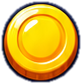
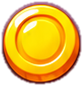
Win popup: purple/cream toy style from Allan's concept, baked title and crown
Claude-Session: https://claude.ai/code/session_01NtdD59FKe2D5p4YXTBGgrJ

diff --git a/index.html b/index.html
@@ -59,40 +59,42 @@ button.on{background:var(--accent)}
 .w-title{font:700 clamp(68px,19vw,128px)/0.9 var(--f-display);color:var(--ball);letter-spacing:.02em;transform:rotate(-3deg);
   text-shadow:4px 0 var(--ink),-4px 0 var(--ink),0 4px var(--ink),0 -4px var(--ink),3px 3px var(--ink),-3px 3px var(--ink),3px -3px var(--ink),-3px -3px var(--ink),0 10px 0 var(--ink)}
 .w-title span{display:inline-block}
-.w-panel{position:relative;display:flex;flex-direction:column;align-items:center;gap:8px;width:min(340px,calc(100vw - 32px));padding:18px 16px 18px;border-radius:34px;
-  background:linear-gradient(#FFFBF3,#F6EADF);border:6px solid #1E2C5C;box-shadow:inset 0 0 0 3px #fff,inset 0 -6px 0 rgba(30,44,92,.08),0 8px 0 #16224A,0 20px 40px rgba(16,24,60,.45)}
-.w-lv{font:700 15px/1 var(--f-display);letter-spacing:.06em;text-transform:uppercase;color:#1E2C5C}
-.w-clear{position:relative;font:700 46px/1.05 var(--f-display);letter-spacing:.01em;color:#FFC21E;margin:2px 0 0;
-  text-shadow:4px 0 #1E2C5C,-4px 0 #1E2C5C,0 4px #1E2C5C,0 -4px #1E2C5C,3px 3px #1E2C5C,-3px 3px #1E2C5C,3px -3px #1E2C5C,-3px -3px #1E2C5C,0 8px 0 #1E2C5C}
-.w-clear::after{content:attr(data-t);position:absolute;inset:0;background:linear-gradient(#FFF6A8 0%,#FFE14A 38%,#FFB300 75%,#F59A00 100%);-webkit-background-clip:text;background-clip:text;color:transparent;text-shadow:none}
-.w-clear::before{content:'';position:absolute;left:10%;right:10%;top:16%;height:16%;border-radius:20px;background:rgba(255,255,255,.55);filter:blur(2px);z-index:1;pointer-events:none;mix-blend-mode:soft-light}
-.w-stars{position:relative;display:flex;align-items:flex-end;justify-content:center;gap:2px;height:112px;width:100%}
-.w-stars::before{content:'';position:absolute;left:50%;top:50%;width:260px;height:200px;transform:translate(-50%,-50%);border-radius:50%;
-  background:radial-gradient(closest-side,rgba(255,236,150,.95),rgba(255,226,120,.55) 45%,rgba(255,226,120,0)),repeating-conic-gradient(from 0deg,rgba(255,214,90,.28) 0 8deg,transparent 8deg 22deg);
+.w-panel{--plum:#5B3A60;--plum2:#7A4F7E;position:relative;display:flex;flex-direction:column;align-items:center;gap:8px;width:min(340px,calc(100vw - 32px));padding:34px 16px 20px;margin-top:34px;border-radius:36px;
+  background:radial-gradient(120% 60% at 50% 0%,#FFF8F0,rgba(255,248,240,0) 70%),linear-gradient(#FFF0E6,#FFE6D6 70%,#FBDCCB);
+  border:8px solid #A77BA6;box-shadow:0 0 0 3px var(--plum),inset 0 0 0 3px #FFD45E,inset 0 0 0 6px #FFF4E4,0 10px 0 #4A2F50,0 22px 44px rgba(40,20,50,.45)}
+.w-crown{position:absolute;top:-62px;left:50%;width:250px;transform:translateX(-50%);pointer-events:none;filter:drop-shadow(0 3px 0 rgba(74,47,80,.35))}
+.w-lv{font:700 16px/1 var(--f-display);letter-spacing:.05em;text-transform:uppercase;color:var(--plum);margin-top:2px}
+.w-clear{width:300px;max-width:100%;height:auto;margin:0 0 -4px}
+.w-stars{position:relative;display:flex;align-items:flex-end;justify-content:center;gap:0;height:100px;width:100%}
+.w-stars::before{content:'';position:absolute;left:50%;top:50%;width:270px;height:210px;transform:translate(-50%,-50%);border-radius:50%;
+  background:radial-gradient(closest-side,rgba(255,240,170,.95),rgba(255,226,120,.55) 45%,rgba(255,226,120,0)),repeating-conic-gradient(from 0deg,rgba(255,206,90,.3) 0 8deg,transparent 8deg 22deg);
   -webkit-mask:radial-gradient(closest-side,#000 55%,transparent);mask:radial-gradient(closest-side,#000 55%,transparent);opacity:0;transition:opacity .4s .3s}
 #win.in .w-stars.lit::before{opacity:1}
-.w-star{position:relative;width:86px;height:auto;opacity:0;transform:scale(.2);filter:drop-shadow(0 4px 0 rgba(30,44,92,.25))}
-.w-star:nth-child(2){width:108px;margin-bottom:10px;z-index:1}
+.w-star{position:relative;width:82px;height:auto;opacity:0;transform:scale(.2);filter:drop-shadow(0 4px 0 rgba(91,58,96,.28))}
+.w-star:nth-child(2){width:100px;margin:0 -6px 12px;z-index:1}
 .w-star.pop{animation:wstar .5s cubic-bezier(.2,1.9,.4,1) forwards}
 @keyframes wstar{0%{opacity:0;transform:scale(.2) rotate(-40deg)}100%{opacity:1;transform:scale(1) rotate(0)}}
 .w-spark{position:absolute;top:22px;width:44px;height:50px;opacity:0;transition:opacity .3s 1.1s}
-.w-spark i{position:absolute;width:24px;height:9px;border-radius:9px;background:linear-gradient(#FFE45C,#FFB300);box-shadow:0 0 0 1.5px rgba(214,140,0,.35)}
+.w-spark i{position:absolute;width:24px;height:10px;border-radius:9px;background:linear-gradient(#FFE45C,#FFB300);box-shadow:0 0 0 1.5px rgba(214,140,0,.35)}
 .w-spark i:nth-child(1){left:6px;top:4px;transform:rotate(40deg)}.w-spark i:nth-child(2){left:0;top:24px;transform:rotate(-10deg)}
 .w-spark.l{left:0}.w-spark.r{right:0;transform:scaleX(-1)}
 #win.in .w-stars.lit .w-spark{opacity:1}
-.w-goal{font:600 15px/1.25 var(--f-display);color:#1E2C5C;min-height:1.25em;text-align:center}
-.w-panel .w-stats{width:100%;justify-content:space-around;background:linear-gradient(#2A3C78,#1A2758);border:3px solid #13204A;border-radius:22px;padding:10px 4px 9px;box-shadow:inset 0 3px 0 rgba(255,255,255,.14),0 4px 0 rgba(19,32,74,.35)}
+.w-goal{font:700 14px/1.25 var(--f-display);color:#5A2F52;min-height:1.25em;text-align:center}
+.w-panel .w-stats{width:100%;justify-content:space-around;background:linear-gradient(#C9A0CC,#9A6CA0 55%,#835689);border:3px solid var(--plum);border-radius:24px;padding:10px 4px 9px;box-shadow:inset 0 3px 0 rgba(255,255,255,.35),inset 0 -4px 0 rgba(74,47,80,.25),0 4px 0 rgba(74,47,80,.4)}
 .w-panel .w-stats div{min-width:0;flex:1;gap:3px}
-.w-panel .w-stats b{font:700 30px/1 var(--f-display);color:#FFD43B;text-shadow:0 2px 0 rgba(0,0,0,.25);display:flex;align-items:center;gap:4px}
-.w-panel .w-stats b img{width:28px;height:28px}
-.w-panel .w-stats span{font:700 12px/1 var(--f-display);letter-spacing:.06em;color:#B9CCFF}
-.w-panel .w-stats b span{font:inherit;color:inherit;letter-spacing:0}
-.w-panel .w-best{position:relative;background:none;padding:2px 46px;border-radius:0;font:700 30px/1.1 var(--f-display);letter-spacing:.04em;color:#FF3E8E;
-  text-shadow:2px 0 #fff,-2px 0 #fff,0 2px #fff,0 -2px #fff,0 4px 0 #A3155A,0 6px 8px rgba(163,21,90,.25);transform:rotate(-2deg)}
+.w-panel .w-stats div+div{border-left:2px solid rgba(255,255,255,.28)}
+.w-panel .w-stats b{font:700 30px/1 var(--f-display);color:#FFDE3D;display:flex;align-items:center;gap:4px;
+  text-shadow:2px 0 var(--plum),-2px 0 var(--plum),0 2px var(--plum),0 -2px var(--plum),0 3px 0 var(--plum)}
+.w-panel .w-stats b img{width:28px;height:auto}
+.w-panel .w-stats span{font:700 13px/1 var(--f-display);letter-spacing:.06em;color:#fff;text-shadow:0 1px 0 rgba(74,47,80,.6)}
+.w-panel .w-stats b span{font:inherit;color:inherit;letter-spacing:0;text-shadow:inherit}
+.w-panel .w-best{position:relative;background:none;padding:2px 46px;border-radius:0;font:700 26px/1.1 var(--f-display);letter-spacing:.03em;white-space:nowrap;color:#FF3E8E;
+  text-shadow:2.5px 0 #fff,-2.5px 0 #fff,0 2.5px #fff,0 -2.5px #fff,2px 2px #fff,-2px -2px #fff,0 5px 0 #B0195F,0 7px 10px rgba(176,25,95,.25);transform:rotate(-2deg)}
 .w-panel .w-best .w-spark{top:2px;width:40px;height:40px;opacity:1;transition:none}
 .w-panel .w-best .w-spark.l{left:-2px}.w-panel .w-best .w-spark.r{right:-2px}
-.w-panel .w-tap{font:700 22px/1 var(--f-display);color:#fff;background:linear-gradient(#34488C,#1E2C5C);border:3px solid #13204A;padding:14px 34px;border-radius:999px;box-shadow:inset 0 3px 0 rgba(255,255,255,.2),0 5px 0 #0F1A3E}
-.w-panel .w-prev{font:600 12px/1 var(--f-display);color:#4A5784}
+.w-panel .w-tap{font:700 23px/1 var(--f-display);color:#fff;background:linear-gradient(#D7AEDA,#A174A8 55%,#8A5C91);border:3px solid var(--plum);padding:14px 40px;border-radius:999px;
+  text-shadow:0 2px 0 rgba(74,47,80,.55);box-shadow:inset 0 3px 0 rgba(255,255,255,.4),inset 0 -4px 0 rgba(74,47,80,.25),0 5px 0 #4A2F50}
+.w-panel .w-prev{font:600 12px/1 var(--f-display);color:#7A5A7E}
 .w-best{font:700 15px/1 var(--f-display);background:var(--spring);color:#fff;padding:8px 14px;border-radius:999px;letter-spacing:.1em}
 .w-stats{display:flex;gap:4px;background:var(--ink);color:var(--paper);border-radius:14px;padding:10px 6px}
 .w-stats div{display:flex;flex-direction:column;align-items:center;min-width:66px;gap:4px}
@@ -102,7 +104,10 @@ button.on{background:var(--accent)}
 .w-tap{font:600 16px/1 var(--f-display);color:var(--paper);background:var(--ink);padding:11px 18px;border-radius:12px;opacity:0;transition:opacity .3s}
 .w-tap.on{opacity:1;animation:wpulse 1s ease-in-out infinite}
 #win.in .w-panel{animation:wpop .4s cubic-bezier(.2,1.6,.4,1) both}
-#win.in .w-clear{animation:wslam .5s .1s cubic-bezier(.2,1.6,.4,1) both}
+#win.in .w-clear{animation:wslam2 .5s .1s cubic-bezier(.2,1.6,.4,1) both}
+#win.in .w-crown{animation:wcrown .5s .05s cubic-bezier(.2,1.8,.4,1) both}
+@keyframes wslam2{0%{transform:scale(2.4) rotate(-8deg);opacity:0}55%{opacity:1}100%{transform:none}}
+@keyframes wcrown{0%{transform:translateX(-50%) translateY(30px) scale(.4);opacity:0}100%{transform:translateX(-50%);opacity:1}}
 #win.in .w-title{animation:wslam .55s cubic-bezier(.2,1.6,.4,1) both}
 #win.in .w-title span{animation:wwob 1.1s ease-in-out infinite;animation-delay:calc(var(--i) * .09s + .5s)}
 #win.in .w-stats{animation:wpop .4s .25s cubic-bezier(.2,1.6,.4,1) both}
@@ -162,8 +167,9 @@ textarea{width:100%;height:180px;font:400 11px/1.4 var(--f-mono);border:2px soli
   <div id="hint" hidden>Tap anywhere to SLAM<small>slam = big bounce + turn around · slam twice to keep going</small></div>
   <div id="toast"></div>
   <div id="win" hidden><div class="w-card"><div class="w-panel">
+    <img class="w-crown" src="art/ui/crown.png" alt="">
     <div class="w-lv" id="wLv">Level 1</div>
-    <div class="w-clear" data-t="Level clear!">Level clear!</div>
+    <img class="w-clear" src="art/ui/title.png" alt="Level clear!">
     <div class="w-stars" id="wStars" aria-label="Stars"><img class="w-star" src="art/ui/star-empty.png" alt=""><img class="w-star" src="art/ui/star-empty.png" alt=""><img class="w-star" src="art/ui/star-empty.png" alt=""><span class="w-spark l"><i></i><i></i></span><span class="w-spark r"><i></i><i></i></span></div>
     <div class="w-goal" id="wGoal"></div>
     <div class="w-stats"><div><b id="wSlams">0</b><span>slams</span></div><div><b><img src="art/ui/coin.png" alt=""><span id="wCoins">0</span></b><span>coins</span></div><div><b id="wTime">0.00</b><span>seconds</span></div></div>
@@ -452,7 +458,7 @@ function winStep(dt){
   if(!w.banner&&w.age>0.3){w.banner=true;showBanner()}
   if(!w.ready&&w.age>1.2){w.ready=true;$('wTap').classList.add('on')}
   const s=scale();
-  pcam.x+=(o.x-pcam.x)*(1-Math.exp(-dt*4));pcam.y+=(o.y-H*0.28/s-pcam.y)*(1-Math.exp(-dt*4));
+  pcam.x+=(o.x-pcam.x)*(1-Math.exp(-dt*4));pcam.y+=(o.y-H*0.33/s-pcam.y)*(1-Math.exp(-dt*4));
 }
 function countUp(el,to,dec,ms,onTick,fmt){const t0=performance.now();let lastI=-1;const show=v=>{el.textContent=fmt?fmt(v.toFixed(dec)):v.toFixed(dec)};const f=now=>{const k=Math.min(1,(now-t0)/ms),e=1-Math.pow(1-k,3),v=to*e;show(v);if(onTick&&Math.floor(v)!==lastI){lastI=Math.floor(v);if(lastI>0)onTick(lastI)}if(k<1)requestAnimationFrame(f);else show(to)};requestAnimationFrame(f)}
 // Stars: 3 = within the fewest slams the bot found (par), 2 = a few more, 1 = any clear.

diff --git a/tools/cut_ui.py b/tools/cut_ui.py
@@ -1,29 +1,42 @@
-"""Cut the shiny star and coin out of the ChatGPT level-clear design (art/ui/src/level-clear-concept.png).
-Writes art/ui/star.png, art/ui/star-empty.png, art/ui/coin.png. Run: python3 tools/cut_ui.py"""
+"""Cut baked pieces for the level-clear popup out of Allan's ChatGPT design (art/ui/src/level-clear-concept-2.png).
+Writes art/ui/: title.png ("Level clear!"), crown.png (top badge with ribbons), star.png, star-empty.png, coin.png,
+Run: python3 tools/cut_ui.py"""
 import cv2, numpy as np, os
-ROOT=os.path.join(os.path.dirname(__file__),'..'); im=cv2.imread(os.path.join(ROOT,'art/ui/src/level-clear-concept.png'))
-def enclosed(x0,y0,x1,y1,vmax=110,keep_outline=True,pad=0):
-    c=im[y0:y1,x0:x1]; v=cv2.cvtColor(c,cv2.COLOR_BGR2HSV)[...,2]
-    dark=(v<vmax).astype(np.uint8)
-    dark=cv2.morphologyEx(dark,cv2.MORPH_CLOSE,np.ones((3,3),np.uint8))
-    free=(1-dark).astype(np.uint8); n,lab=cv2.connectedComponents(free)
-    edge=set(np.unique(np.concatenate([lab[0],lab[-1],lab[:,0],lab[:,-1]])))
+ROOT=os.path.join(os.path.dirname(__file__),'..'); SRC=os.path.join(ROOT,'art/ui/src/level-clear-concept-2.png'); OUT=os.path.join(ROOT,'art/ui')
+im=cv2.imread(SRC); HSV=cv2.cvtColor(im,cv2.COLOR_BGR2HSV).astype(int)
+def save(n,a): cv2.imwrite(os.path.join(OUT,n),a); print(n,a.shape[1],'x',a.shape[0])
+def finish(x0,y0,x1,y1,m,fill=True,soft=0.8,minarea=40):
+    m=m.astype(np.uint8)
+    if fill:
+        inv=(1-m).astype(np.uint8);n,lab=cv2.connectedComponents(inv)
+        edge=set(np.unique(np.concatenate([lab[0],lab[-1],lab[:,0],lab[:,-1]])))
+        for k in range(1,n):
+            if k not in edge: m[lab==k]=1
+    n,lab,st,_=cv2.connectedComponentsWithStats(m);keep=[k for k in range(1,n) if st[k,cv2.CC_STAT_AREA]>minarea];m=np.isin(lab,keep).astype(np.float32)
+    a=cv2.GaussianBlur(m,(3,3),soft); c=im[y0:y1,x0:x1].astype(np.float32)
+    out=np.dstack([c,a*255]); ys,xs=np.nonzero(a>0.05)
+    return out[max(0,ys.min()-1):ys.max()+2,max(0,xs.min()-1):xs.max()+2].clip(0,255).astype(np.uint8)
+def region(x0,y0,x1,y1): h,s,v=[HSV[y0:y1,x0:x1,i] for i in range(3)]; return h,s,v
+def enclosed(x0,y0,x1,y1,vmax=120,grow=4,every=False,nocream=False):
+    h,s,v=region(x0,y0,x1,y1); dark=cv2.morphologyEx((v<vmax).astype(np.uint8),cv2.MORPH_CLOSE,np.ones((3,3),np.uint8))
+    n,lab=cv2.connectedComponents((1-dark).astype(np.uint8)); edge=set(np.unique(np.concatenate([lab[0],lab[-1],lab[:,0],lab[:,-1]])))
     inside=np.isin(lab,[k for k in range(1,n) if k not in edge]).astype(np.uint8)
-    # keep the biggest enclosed area (the star/coin body) and everything inside it
-    n2,l2,st,_=cv2.connectedComponentsWithStats(inside);k=1+np.argmax(st[1:,cv2.CC_STAT_AREA]);body=(l2==k).astype(np.uint8)
+    n2,l2,st,_=cv2.connectedComponentsWithStats(inside)
+    body=(np.isin(l2,[k for k in range(1,n2) if st[k,cv2.CC_STAT_AREA]>400]) if every else (l2==1+np.argmax(st[1:,cv2.CC_STAT_AREA]))).astype(np.uint8)
     body=cv2.morphologyEx(body,cv2.MORPH_CLOSE,np.ones((7,7),np.uint8))
-    ff=body.copy();h,w=body.shape;cv2.floodFill(ff,np.zeros((h+2,w+2),np.uint8),(0,0),1);body=body|(1-ff)
-    m=cv2.dilate(body,np.ones((3,3),np.uint8),iterations=pad if pad else 4) if keep_outline else body
-    a=cv2.GaussianBlur(m.astype(np.float32),(3,3),0.8)
-    out=np.dstack([c.astype(np.float32),a*255])
-    if not keep_outline: pass
-    ys,xs=np.nonzero(m);return out[ys.min()-2:ys.max()+3,xs.min()-2:xs.max()+3].clip(0,255).astype(np.uint8)
-star=enclosed(345,480,600,725)
-cv2.imwrite(os.path.join(ROOT,'art/ui/star.png'),star)
-# empty star: same shape, cool grey-blue, keeps the shine
+    m=cv2.dilate(body,np.ones((3,3),np.uint8),iterations=grow)
+    if nocream: m=m&((v<215)|(s>110)).astype(np.uint8)
+    return finish(x0,y0,x1,y1,m)
+# crown with ribbons, over the blue game scene
+X0,Y0,X1,Y1=180,150,752,281; h,s,v=region(X0,Y0,X1,Y1)
+blue=(h>=85)&(h<=135); cloud=(s<70)&(v>150)
+save('crown.png',finish(X0,Y0,X1,Y1,~(blue|cloud),minarea=2000))
+# stars and coin
+star=enclosed(352,500,592,738,vmax=185,grow=3); save('star.png',star)
 g=cv2.cvtColor(star[...,:3],cv2.COLOR_BGR2GRAY).astype(np.float32)
-e=np.dstack([g*0.62+70,g*0.55+60,g*0.5+55]); dk=g<90; e[dk]=star[...,:3][dk]
-cv2.imwrite(os.path.join(ROOT,'art/ui/star-empty.png'),np.dstack([e.clip(0,255),star[...,3]]).astype(np.uint8))
-coin=enclosed(338,830,428,920,vmax=95,pad=2)
-cv2.imwrite(os.path.join(ROOT,'art/ui/coin.png'),coin)
-for n in ('star','star-empty','coin'):print(n,cv2.imread(os.path.join(ROOT,f'art/ui/{n}.png'),cv2.IMREAD_UNCHANGED).shape)
+e=np.dstack([g*0.55+95,g*0.5+80,g*0.5+92]); dk=g<100; e[dk]=star[...,:3][dk]
+save('star-empty.png',np.dstack([e.clip(0,255),star[...,3]]).astype(np.uint8))
+save('coin.png',enclosed(338,852,428,942,vmax=185,grow=2))
+# "Level clear!": yellow letters and plum outline on cream
+X0,Y0,X1,Y1=105,362,845,512; h,s,v=region(X0,Y0,X1,Y1)
+save('title.png',enclosed(X0,Y0,X1,Y1,vmax=170,grow=14,every=True,nocream=True))

diff --git a/CLAUDE.md b/CLAUDE.md
@@ -37,7 +37,7 @@
 ## Code map (in `index.html`)
 - Settings: `FEEL` (slider and toggle definitions; `'seg'` type = button group, with options in `SEGS`) and `DEF`. Settings save under the key `sbl_feel`.
 - Core loop: `tap()`, `step()`, `land()`, `doSlamBounce()`, `hitBrk()`, `nextCombo()`, `turnsAt()`, `die()`, `startPlay()`.
-- Win: `celebrate()`, `winStep()`, `showBanner()`. The popup (`#win .w-panel`, styled after Allan's ChatGPT design `art/ui/src/level-clear-concept.png`; shiny `art/ui/star.png`, `star-empty.png`, `coin.png` cut by `python3 tools/cut_ui.py`; NEW BEST / FIRST CLEAR is plain colourful text, no pill, per Allan) shows Level clear!, 1–3 stars, slams, coins found / total, time. Stars: `levelPar()` = fewest slams the bot finds (computed once per layout + physics Feel at level start, saved as `sbl_par_<hash>`); `starsFor()`: ≤ par = 3, ≤ par + `starStep(par)` (max(2, ½ par)) = 2, else 1. Best stars saved as `sbl_best_<hash>_stars`.
+- Win: `celebrate()`, `winStep()`, `showBanner()`. The popup (`#win .w-panel`, styled after Allan's purple/cream ChatGPT design `art/ui/src/level-clear-concept-2.png` (the older navy one is `level-clear-concept.png`); baked pictures `art/ui/title.png` ("Level clear!"), `crown.png`, shiny `star.png`, `star-empty.png`, `coin.png` cut by `python3 tools/cut_ui.py`; NEW BEST / FIRST CLEAR is plain colourful text, no pill, per Allan) shows Level clear!, 1–3 stars, slams, coins found / total, time. Stars: `levelPar()` = fewest slams the bot finds (computed once per layout + physics Feel at level start, saved as `sbl_par_<hash>`); `starsFor()`: ≤ par = 3, ≤ par + `starStep(par)` (max(2, ½ par)) = 2, else 1. Best stars saved as `sbl_best_<hash>_stars`.
 - Level start: `introStart()`/`introTick()` (Feel `intro`: `fly` = camera starts on the flag and glides to Boing, `zoom` = whole level shown then zooms in, `off`). Runs only on a level's first try, not after deaths or for the bot; a tap skips it. `drawGoalArrow()` pins a flag badge to the screen edge pointing at an off-screen flag (Feel `goalArrow`).
 - Drawing: `render()`, `drawObj()`, `drawBall()`, `drawBoing()`. Boing is drawn with his body's bottom on the hitbox's bottom, scaled by `boingSize` (default 1.5×; visual only, the hitbox never changes). He flips with direction. `pickPose()` chooses rise/apex/fall/land/slam/dead/win from his motion, and `drawBoing()` fades into the new pose over `poseBlend` s, with `tilt` and `squashAmt` (Feel sliders) on top.
 - World art (painted, `// ---------- world art (painted) ----------`): Feel `art` default `painted`. Pieces cut from Allan's ChatGPT concept (`art/world/src/concept-1.png`) by `python3 tools/cut_world.py` into `art/world/*.png` (needs opencv-python-headless): 3-slice caps `cap-*` (anchored) and `float-*` (plank platform), brick tile `base-bricks` (drawn crisp by `python3 tools/make_bricks.py`, running bond, 4 px per unit; `base-mid` is the old blurry cut, unused), decorations `deco-banner`/`deco-vine`, `bg-far` (mirrored so it loops), `cloud-1..3`. Drawn at `ART_K` 0.55 units per pixel; walk line = pixel row 8 of each cap. Bases layer like the greybox. Breakables still use the code drawing. Pictures load from `art/world/`, so the artifact publish must include them via `files`.
